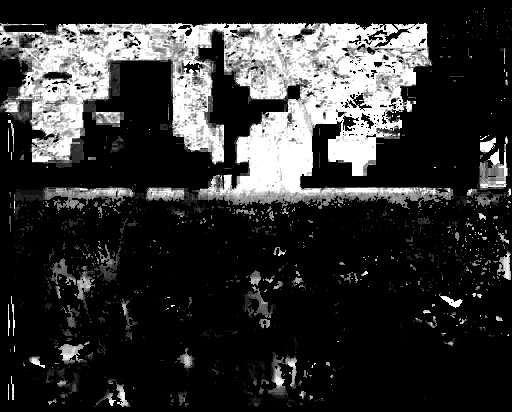
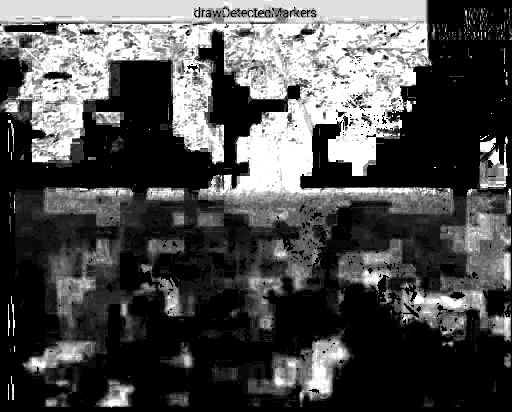
Use img

diff --git a/window_detect_irregular.py b/window_detect_irregular.py
@@ -106,6 +106,7 @@ def reconstruct_img(Y,D,ksvd):
 
 
 def evaluate(Y,Y_rec_ok,Y_rec_ng,patch_size,original_img_size, img_list, d_num):
+    global feature_name
     """
     学習画像・正常画像・異常画像それぞれについて、
     ・元画像
@@ -165,9 +166,9 @@ def evaluate(Y,Y_rec_ok,Y_rec_ng,patch_size,original_img_size, img_list, d_num):
     plt.hist(abs(Y_rec_ng-Y).reshape(-1,),bins=100,range=(0,10))
     plt.ylim(0,pxcels/3)
     plt.title("difference", fontsize=fs)
-    plt.savefig(f"results_data/part_{d_num}")
+    plt.savefig(f"results_data/{feature_name}_part_{d_num}")
     
-    plt.show()
+    #plt.show()
     plt.close()
     print(np.average(abs(Y_rec_ok-Y)).reshape(-1,)) # 評価方法要検討
     print(np.average(abs(Y_rec_ng-Y)).reshape(-1,))
@@ -228,58 +229,42 @@ def estimate(train_img_part, test_img_ok_part, test_img_ng_part, img_size, d_num
     evaluate(Y,Y_rec_ok,Y_rec_ng,patch_size,img_size, img_list, d_num)
 
 
-def make_sharp_kernel(k: int):
-      return np.array([
-    [-k / 9, -k / 9, -k / 9],
-    [-k / 9, 1 + 8 * k / 9, k / 9],
-    [-k / 9, -k / 9, -k / 9]
-  ], np.float32)
-
-
-
-
-
-
-
-# OpenCVによるエッジ強調（現在は標準入力でカーネルパラメータ指定）
-def edge_Enphasis():
-    edge_enphasis = sys.argv
-    if len(edge_enphasis)<2:
-        print(f'No argument "edge_enphasis" :python {edge_enphasis[0]} true;str kernel-param;int or false;str')
-        sys.exit()
-
-    if edge_enphasis[1]=="true":
-        img = cv2.imread("img_data/data_old/img_train_RPC.jpg")
-        img = cv2.cvtColor(img, cv2.COLOR_BGR2RGB)
-        k = 1
-        kernel = np.array([[0, 1, 0],
-                           [1, -4, 1],
-                           [0, 1, 0]], np.float32)
-        img = cv2.filter2D(img, -1, kernel)
-        cv2.imwrite("img_data/use_img/img_train_RPC.jpg", img)
-    elif edge_enphasis[1]=="false":
-        img = cv2.imread("img_data/data_old/img_train_RPC.jpg")
-        cv2.imwrite("img_data/use_img/img_train_RPC.jpg", img)
-    else:
-        print(f'No argument "edge_enphasis" :python {edge_enphasis[0]} true;str kernel-param;int or false;str')
-        sys.exit()
-
-
 def read_img(path_list):
+    """画像読込関数
+    
+    Args:
+        path_list (list): 変換希望画像パス一覧
+    
+    Returns:
+        list: 3 paths of featured img.
+    """
+    global feature_name
     treat = Feature_img(path_list)
     feature = sys.argv
     if len(feature)<2:
         pass
     
     elif feature[1]=="vari":
+        feature_name = feature[1]
         treat.vari()
         path_list = treat.output()
     
     elif feature[1]=="enphasis":
-        treat.enphasis()
+        feature_name = feature[1]
+        path_list = treat.enphasis()
+        path_list = treat.output()
+        
+    elif feature[1]=="edge":
+        feature_name = feature[1]
+        path_list = treat.edge()
+        path_list = treat.output()
+        
+    elif feature[1]=="red":
+        feature_name = feature[1]
+        path_list = treat.red()
         path_list = treat.output()
     else:
-        print(f"{feature[1]} was not found in Feature_img Function.\nFeatures are vari, enphasis, or nothing as normal.")
+        print(f"{feature[1]} was not found in Feature_img Function.\nFeatures are vari, enphasis, edge, red, or nothing as normal.")
         sys.exit()
         
     # 一旦二分の一で画像上部排除
@@ -338,8 +323,8 @@ def main():
 
     ＊全てモノクロに直して処理。
     """
-    path_list = ["img_data/data_old/img_train_RPC.jpg", 
-                "img_data/data_old/img_test_ok_RPC.jpg",
+    path_list = ["img_data/data_old/img_test_ok_RPC.jpg",
+                "img_data/data_old/img_train_RPC.jpg", 
                 "img_data/data_old/img_1.jpg"]
     # edge_Enphasis()
     train_img, test_img_ok, test_img_ng = read_img(path_list)
@@ -350,7 +335,7 @@ patch_size=(5,5)
 n_components=6
 transform_n_nonzero_coefs=3
 max_iter=15
-
+feature_name = "normal_RGB"
 
 if __name__ == "__main__":
     main()

diff --git a/FEATURE.py b/FEATURE.py
@@ -1,5 +1,6 @@
 import numpy as np
 import cv2
+
 from PIL import Image
 from matplotlib import pyplot as plt
 from time import time
@@ -8,6 +9,26 @@ class Feature_img():
     output_img_list = None
     def __init__(self, path_list):
         self.path_list = path_list
+
+    def red(self):
+        self.output_img_list = []
+        for i in range(len(self.path_list)):
+            self.org_img = np.asarray(Image.open(self.path_list[i]))
+            print(self.org_img)
+            self.org_img[2][1][:][:] = 0
+            print(self.org_img)
+            self.org_img[2][2][:][:] = 0
+            print(self.org_img)
+            #self.img_hsv = cv2.cvtColor(self.org_img, cv2.COLOR_BGR2HSV_FULL)
+            #self.img_mask0 = cv2.inRange(self.img_hsv, np.array([0, 127,0]), np.array([7, 255, 255]))
+            #self.img_mask1 = cv2.inRange(self.img_hsv, np.array([238, 127,0]), np.array([255, 255, 255]))
+            #self.img_mask = self.img_mask0 | self.img_mask1
+            #self.output_img = cv2.bitwise_and(self.org_img, self.org_img, mask=self.img_mask) # 元画像とマスクを合成
+            self.save_name = f"img_data/use_img/red_{i+1}.jpg"
+            self.output_img = Image.fromarray(self.org_img)
+            self.output_img.save(self.save_name)
+            #cv2.imwrite(self.save_name, self.output_img)
+            self.output_img_list.append(self.save_name)
 
     def vari(self):
         self.output_img_list = []
@@ -23,7 +44,7 @@ class Feature_img():
                     b = float(self.org_img[i][j][0])
                     g = float(self.org_img[i][j][1])
                     r = float(self.org_img[i][j][2])
-                    if b < 125:
+                    if b < 200:
                         vari_d = g+r-b
                         if vari_d != 0:
                             vari = (g-r)/(g+r-b)
@@ -58,21 +79,29 @@ class Feature_img():
             self.save_name = f"img_data/use_img/vari_{i}.jpg"
             cv2.imwrite(self.save_name, self.output_img)
             self.output_img_list.append(self.save_name)
-        self.output()
     
     def enphasis(self):
         self.output_img_list = []
         for i in range(len(self.path_list)):
             self.org_img = cv2.imread(self.path_list[i], 1)
             self.org_img = cv2.cvtColor(self.org_img, cv2.COLOR_BGR2RGB)
-            kernel = np.array([[0, 1, 0],
-                            [1, -4, 1],
-                            [0, 1, 0]], np.float32)
+            kernel = np.array([[0, 2, 0],
+                            [2, -8, 2],
+                            [0, 2, 0]], np.float32)
             self.output_img = cv2.filter2D(self.org_img, -1, kernel)
             self.save_name = f"img_data/use_img/edge_enphasis_{i+1}.jpg"
             cv2.imwrite(self.save_name, self.output_img)
             self.output_img_list.append(self.save_name)
-            self.output()
+    
+    def edge(self):
+        self.output_img_list = []
+        for i in range(len(self.path_list)):
+            self.org_img = cv2.imread(self.path_list[i])
+            self.img_gray = cv2.cvtColor(self.org_img, cv2.COLOR_BGR2GRAY)
+            self.gray=cv2.Canny(self.img_gray,100,200)
+            self.save_name = f"img_data/use_img/edge_{i+1}.jpg"
+            cv2.imwrite(self.save_name,self.gray)
+            self.output_img_list.append(self.save_name)
     
     def output(self):
         return self.output_img_list

diff --git a/edge_recognition.py b/edge_recognition.py
@@ -1,9 +1,9 @@
 import cv2 as cv
-dirname="img_data"
-filename="tochigi7.jpg"
+dirname="img_data/data_old"
+filename="img_train_RPC.jpg"
 path=dirname+"/"+filename
 img = cv.imread(path)
 img_gray = cv.cvtColor(img, cv.COLOR_BGR2GRAY)
-gray=cv.Canny(img_gray,100,200)
+gray=cv.Canny(img_gray,100,150)
 print(path[:-4])
 cv.imwrite(path[:-4]+"_edge.jpg",gray)
